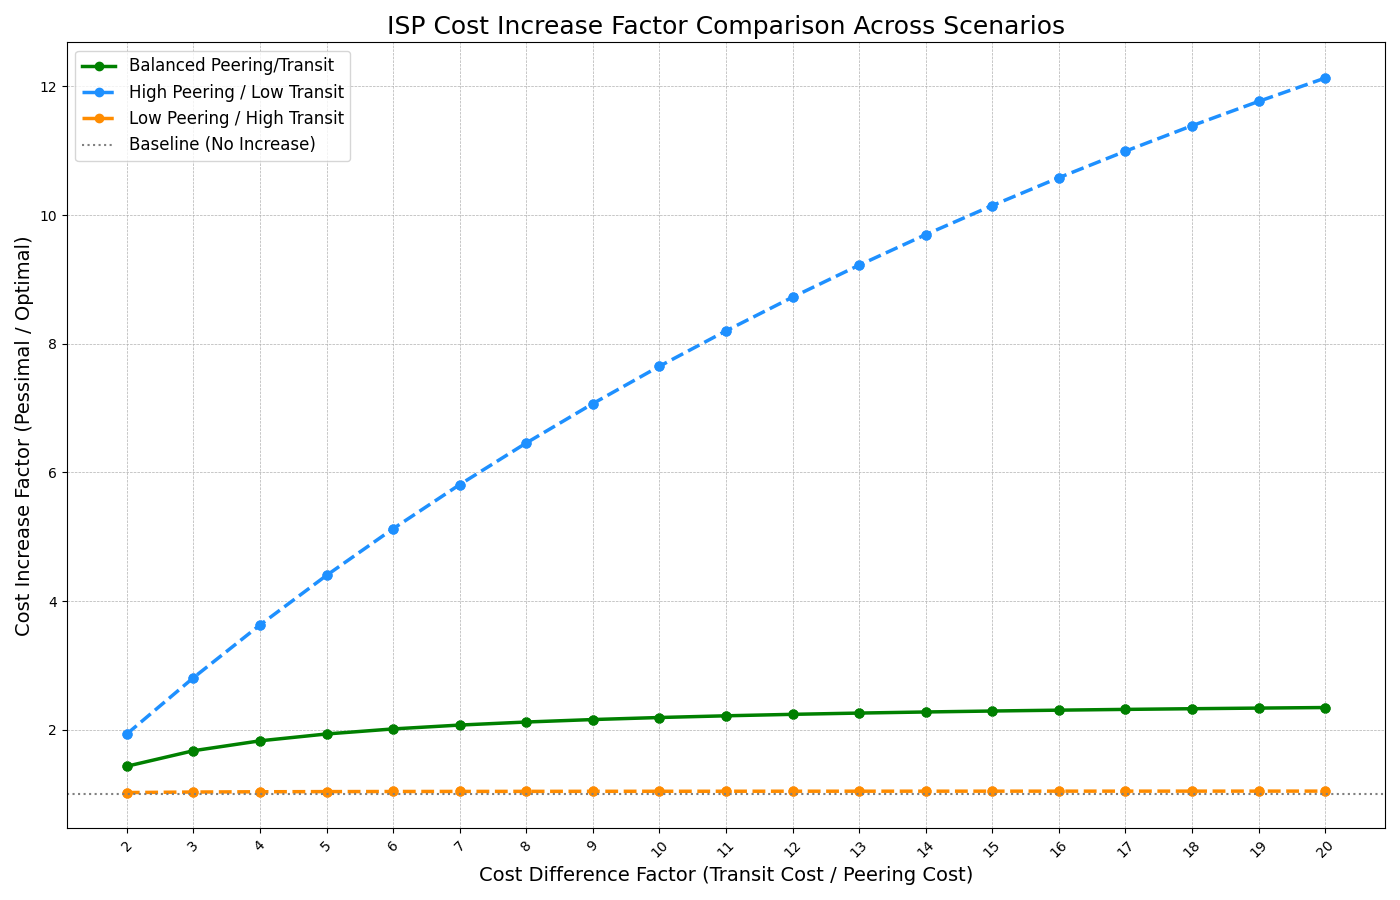
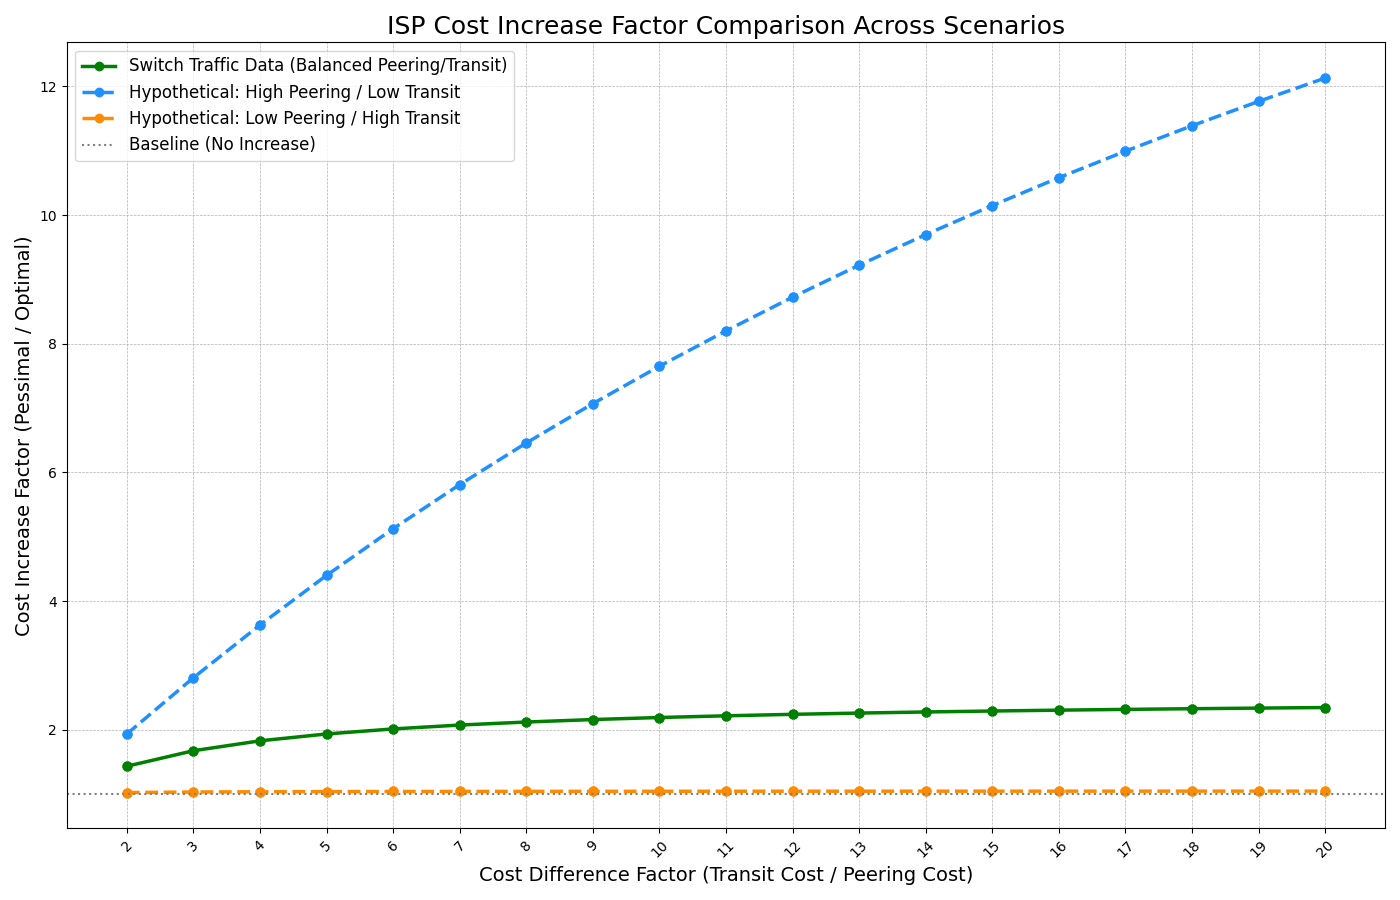
Fix peering_transit_factor results

Changed region(s): [[0.0921, 0.0622, 0.3686, 0.1556]]

diff --git a/switch_eval/plot_peering_transit_factor.py b/switch_eval/plot_peering_transit_factor.py
@@ -58,17 +58,17 @@ def analyze_and_plot_final_comparison():
     """
     # --- 1. Configuration: Add a 'linestyle' key for each scenario ---
     scenarios = {
-        "Balanced Peering/Transit": {
+        "Switch Traffic Data (Balanced Peering/Transit)": {
             "path": "peering_transit_factor_balanced/results",
             "color": "green",
             "linestyle": "solid"  # Solid line for the balanced case
         },
-        "High Peering / Low Transit": {
+        "Hypothetical: High Peering / Low Transit": {
             "path": "peering_transit_factor_high/results",
             "color": "dodgerblue",
             "linestyle": "dashed" # Dashed line for this case
         },
-        "Low Peering / High Transit": {
+        "Hypothetical: Low Peering / High Transit": {
             "path": "peering_transit_factor_low/results",
             "color": "darkorange",
             "linestyle": "dashed" # Dashed line for this case
